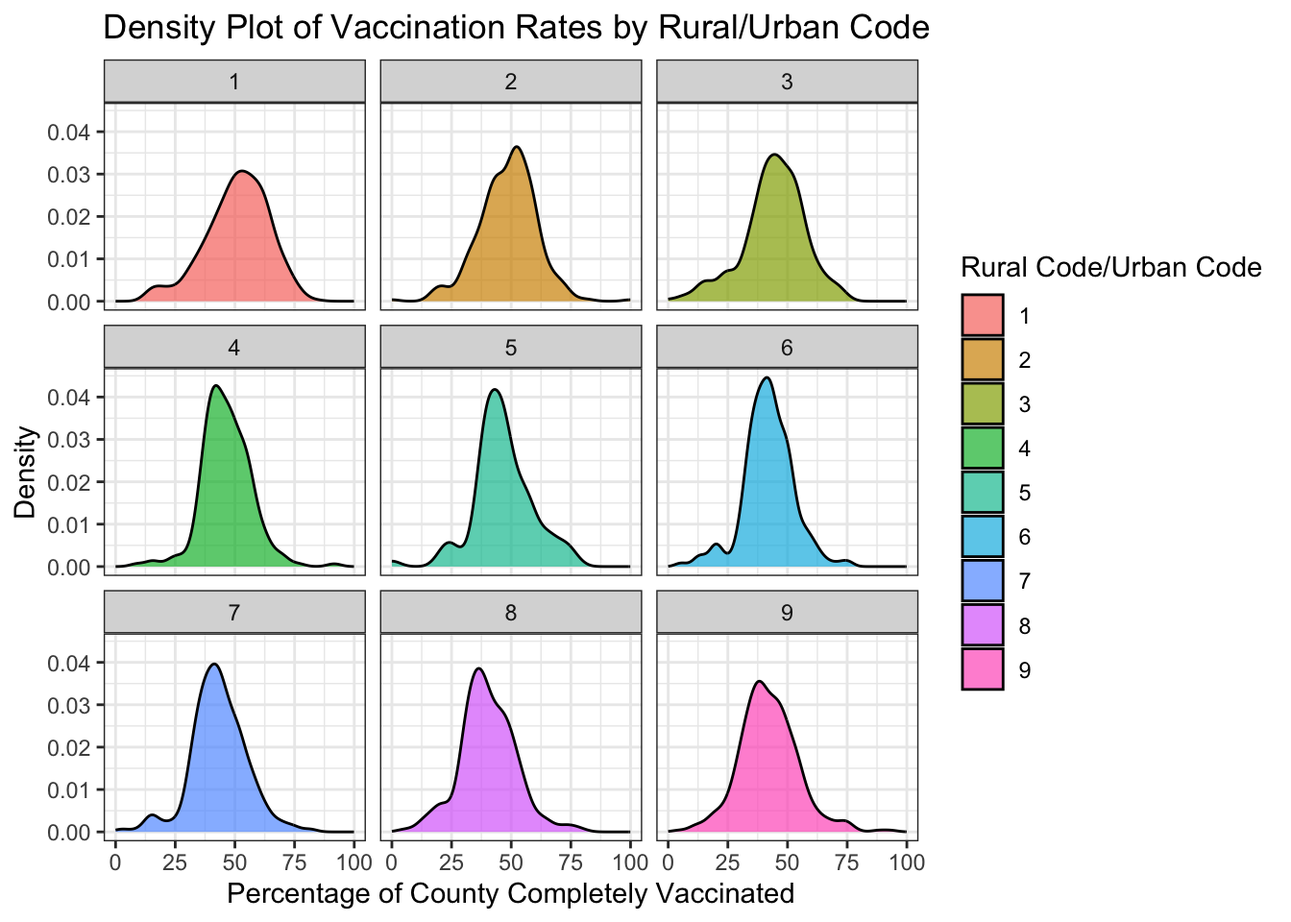
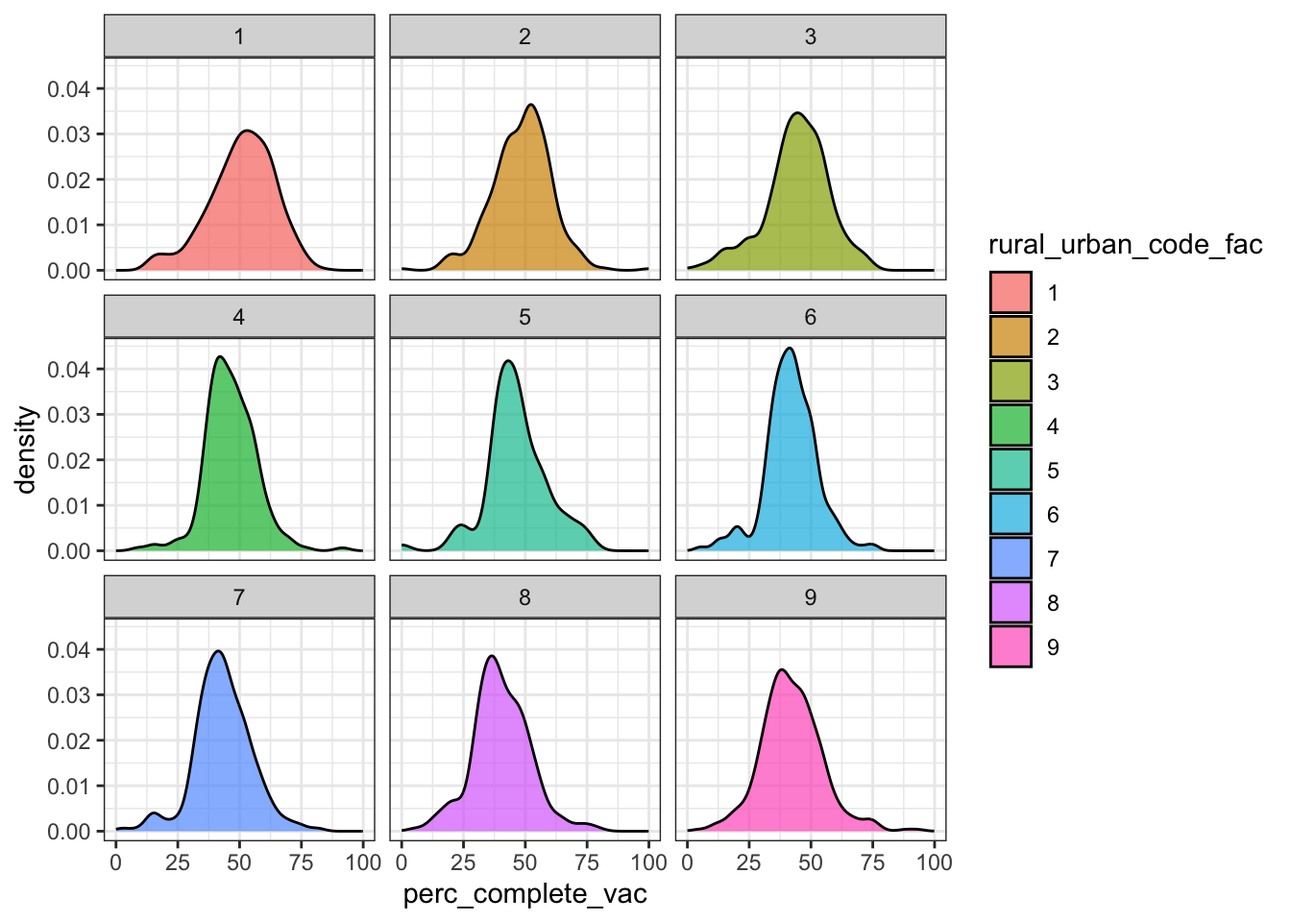
final touches

Changed region(s): [[0.0, 0.0, 0.9688, 1.0]]

diff --git a/01_review164.html b/01_review164.html
@@ -71,10 +71,11 @@ pre > code.sourceCode > span > a:first-child::before { text-decoration: underlin
 
 </head>
 
-<body class="fullcontent">
+<body>
 
 <div id="quarto-content" class="page-columns page-rows-contents page-layout-article">
-
+<div id="quarto-margin-sidebar" class="sidebar margin-sidebar">
+<div class="quarto-alternate-formats"><h2>Other Formats</h2><ul><li><a href="01_review164.pdf"><i class="bi bi-file-pdf"></i>PDF</a></li></ul></div></div>
 <main class="content" id="quarto-document-content">
 
 <header id="title-block-header" class="quarto-title-block default">
@@ -167,6 +168,7 @@ dbl (10): rural_urban_code, perc_complete_vac, tot_pop, votes_Trump, votes_B...
 <ol type="1">
 <li>Consider only Minnesota and its surrounding states (Iowa, Wisconsin, North Dakota, and South Dakota). We want to examine the relationship between the percentage who voted for Biden and the percentage of complete vaccinations by state. Generate two plots to examine this relationship:</li>
 </ol>
+<!-- -->
 <ol type="a">
 <li>A scatterplot with points and smoothers colored by state. Make sure the legend is ordered in a meaningful way, and include good labels on your axes and your legend. Also leave off the error bars from your smoothers.</li>
 </ol>
@@ -236,6 +238,7 @@ dbl (10): rural_urban_code, perc_complete_vac, tot_pop, votes_Trump, votes_B...
 <ol start="3" type="1">
 <li>We want to examine the distribution of total county populations and then see how it’s related to vaccination rates.</li>
 </ol>
+<!-- -->
 <ol type="a">
 <li><em>Carefully and thoroughly</em> explain why the two histograms below provide different plots.</li>
 </ol>
@@ -270,6 +273,7 @@ dbl (10): rural_urban_code, perc_complete_vac, tot_pop, votes_Trump, votes_B...
 <li><p>Plot a histogram of logged population and describe this distribution.</p></li>
 <li><p>Plot the relationship between log population and percent vaccinated using separate colors for Metro and Non-metro counties (be sure there’s no 3rd color used for NAs). Reduce the size and transparency of each point to make the plot more readable. Describe what you can learn from this plot.</p></li>
 </ol>
+<!-- -->
 <ol start="4" type="1">
 <li>Produce 3 different plots for illustrating the relationship between the rural_urban_code and percent vaccinated. Hint: you can sometimes turn numeric variables into categorical variables for plotting purposes (e.g.&nbsp;<code>as.factor()</code>, <code>ifelse()</code>).</li>
 </ol>
@@ -285,7 +289,8 @@ dbl (10): rural_urban_code, perc_complete_vac, tot_pop, votes_Trump, votes_B...
 <span id="cb10-8"><a href="#cb10-8" aria-hidden="true" tabindex="-1"></a>  <span class="fu">labs</span>(<span class="at">x =</span> <span class="st">"Percentage of County Completely Vaccinated"</span>,</span>
 <span id="cb10-9"><a href="#cb10-9" aria-hidden="true" tabindex="-1"></a>       <span class="at">y =</span> <span class="st">"Count"</span>, </span>
 <span id="cb10-10"><a href="#cb10-10" aria-hidden="true" tabindex="-1"></a>       <span class="at">fill =</span> <span class="st">"Rural Code/Urban Code"</span>,</span>
-<span id="cb10-11"><a href="#cb10-11" aria-hidden="true" tabindex="-1"></a>       <span class="at">title =</span> <span class="st">"Histogram of Vaccination Rates by Rural/Urban Code"</span>)</span></code><button title="Copy to Clipboard" class="code-copy-button"><i class="bi"></i></button></pre></div>
+<span id="cb10-11"><a href="#cb10-11" aria-hidden="true" tabindex="-1"></a>       <span class="at">title =</span> <span class="st">"Histogram of Vaccination Rates by Rural/Urban Code"</span>) <span class="sc">+</span></span>
+<span id="cb10-12"><a href="#cb10-12" aria-hidden="true" tabindex="-1"></a>  <span class="fu">theme</span>(<span class="at">legend.position =</span> <span class="st">"none"</span>)</span></code><button title="Copy to Clipboard" class="code-copy-button"><i class="bi"></i></button></pre></div>
 <div class="cell-output cell-output-stderr">
 <pre><code>`stat_bin()` using `bins = 30`. Pick better value with `binwidth`.</code></pre>
 </div>
@@ -297,18 +302,16 @@ dbl (10): rural_urban_code, perc_complete_vac, tot_pop, votes_Trump, votes_B...
 </div>
 </div>
 </div>
+<p>This is my favorite plot, because it tells me a lot about the data (not saying the others don’t) from this I can get a read of how many counties are labeled/assigned to a distinct rural/urban code opposed to the density plot in which it shows the percentage of however many are with that code. As well as how it is faceted it is easier to read and interpret the data and can give us information that for the most urban county (code 1) there are more counts of counties that are in the 40%-60% fully vaccinated opposed to the most rural community (code 9). It is easy to dissect the counts from code to code with this histogram and I appreciate it. I wouldn’t use this as a final plot however it is a good place to start.</p>
+<p>Alt-text. This is a facted histogram showing the relationship between percentage of a county that is completely vaccinated against Covid-19 as of 11/9/21 (x axis) and the amount of counties. It is faceted by the rural/urban code of the county, where 1 is most urban to 9 most rural. We can see the percentage of vaccination rates ranging from 0% to 99.9%. The count ranges from 0- 85ish. The highest number of counties with a similar percentage would be for code 6 with over 85 counts in the 40ish percentage rate being fully vaccinated, this is also its peak. It is also visible that there are the most counties with rural/urban code 6 because of the amount of counts in the histogram itself, it is visibly bigger/thicker than the others. Rural/Urban code 5 has the least amount of counties with the code number. For all of the rural/urban codes the histogram is normally distributed with the peak of the lying anywhere between 38% and 50%. Histograms 4, and 8 have slightly right skewed distributions and every other histogram has a normal distributions.</p>
 <div class="cell">
 <div class="sourceCode cell-code" id="cb12"><pre class="sourceCode r code-with-copy"><code class="sourceCode r"><span id="cb12-1"><a href="#cb12-1" aria-hidden="true" tabindex="-1"></a><span class="co"># PLOT #2</span></span>
 <span id="cb12-2"><a href="#cb12-2" aria-hidden="true" tabindex="-1"></a>vaccine_data <span class="sc">|&gt;</span></span>
 <span id="cb12-3"><a href="#cb12-3" aria-hidden="true" tabindex="-1"></a>  <span class="fu">mutate</span>(<span class="at">rural_urban_code_fac =</span> <span class="fu">as.factor</span>(rural_urban_code)) <span class="sc">|&gt;</span> </span>
 <span id="cb12-4"><a href="#cb12-4" aria-hidden="true" tabindex="-1"></a>  <span class="fu">ggplot</span>(<span class="fu">aes</span>(<span class="at">x =</span> perc_complete_vac, <span class="at">fill =</span> rural_urban_code_fac)) <span class="sc">+</span></span>
 <span id="cb12-5"><a href="#cb12-5" aria-hidden="true" tabindex="-1"></a>  <span class="fu">geom_density</span>(<span class="at">alpha =</span> .<span class="dv">7</span>) <span class="sc">+</span></span>
-<span id="cb12-6"><a href="#cb12-6" aria-hidden="true" tabindex="-1"></a>  <span class="fu">facet_wrap</span>(<span class="sc">~</span>rural_urban_code_fac) <span class="sc">+</span></span>
-<span id="cb12-7"><a href="#cb12-7" aria-hidden="true" tabindex="-1"></a>  <span class="fu">theme_bw</span>() <span class="sc">+</span></span>
-<span id="cb12-8"><a href="#cb12-8" aria-hidden="true" tabindex="-1"></a>  <span class="fu">labs</span>(<span class="at">x =</span> <span class="st">"Percentage of County Completely Vaccinated"</span>,</span>
-<span id="cb12-9"><a href="#cb12-9" aria-hidden="true" tabindex="-1"></a>      <span class="at">y =</span> <span class="st">"Density"</span>,</span>
-<span id="cb12-10"><a href="#cb12-10" aria-hidden="true" tabindex="-1"></a>      <span class="at">title =</span> <span class="st">"Density Plot of Vaccination Rates by Rural/Urban Code"</span>,</span>
-<span id="cb12-11"><a href="#cb12-11" aria-hidden="true" tabindex="-1"></a>      <span class="at">fill =</span> <span class="st">"Rural Code/Urban Code"</span>)</span></code><button title="Copy to Clipboard" class="code-copy-button"><i class="bi"></i></button></pre></div>
+<span id="cb12-6"><a href="#cb12-6" aria-hidden="true" tabindex="-1"></a>  <span class="fu">theme_bw</span>() <span class="sc">+</span></span>
+<span id="cb12-7"><a href="#cb12-7" aria-hidden="true" tabindex="-1"></a>  <span class="fu">facet_wrap</span>(<span class="sc">~</span>rural_urban_code_fac)</span></code><button title="Copy to Clipboard" class="code-copy-button"><i class="bi"></i></button></pre></div>
 <div class="cell-output-display">
 <div>
 <figure class="figure">
@@ -316,17 +319,28 @@ dbl (10): rural_urban_code, perc_complete_vac, tot_pop, votes_Trump, votes_B...
 </figure>
 </div>
 </div>
+<div class="sourceCode cell-code" id="cb13"><pre class="sourceCode r code-with-copy"><code class="sourceCode r"><span id="cb13-1"><a href="#cb13-1" aria-hidden="true" tabindex="-1"></a>  <span class="fu">labs</span>(<span class="at">x =</span> <span class="st">"Percentage of County Completely Vaccinated"</span>,</span>
+<span id="cb13-2"><a href="#cb13-2" aria-hidden="true" tabindex="-1"></a>      <span class="at">y =</span> <span class="st">"Density"</span>,</span>
+<span id="cb13-3"><a href="#cb13-3" aria-hidden="true" tabindex="-1"></a>      <span class="at">title =</span> <span class="st">"Density Plot of Vaccination Rates by Rural/Urban Code"</span>,</span>
+<span id="cb13-4"><a href="#cb13-4" aria-hidden="true" tabindex="-1"></a>      <span class="at">fill =</span> <span class="st">"Rural Code/Urban Code"</span>) <span class="sc">+</span></span>
+<span id="cb13-5"><a href="#cb13-5" aria-hidden="true" tabindex="-1"></a>  <span class="fu">theme</span>(<span class="at">legend.position =</span> <span class="st">"none"</span>)</span></code><button title="Copy to Clipboard" class="code-copy-button"><i class="bi"></i></button></pre></div>
+<div class="cell-output cell-output-stdout">
+<pre><code>NULL</code></pre>
+</div>
 </div>
 <div class="cell">
-<div class="sourceCode cell-code" id="cb13"><pre class="sourceCode r code-with-copy"><code class="sourceCode r"><span id="cb13-1"><a href="#cb13-1" aria-hidden="true" tabindex="-1"></a><span class="co"># PLOT #3</span></span>
-<span id="cb13-2"><a href="#cb13-2" aria-hidden="true" tabindex="-1"></a>vaccine_data <span class="sc">|&gt;</span></span>
-<span id="cb13-3"><a href="#cb13-3" aria-hidden="true" tabindex="-1"></a>  <span class="fu">mutate</span>(<span class="at">rural_urban_code_fac =</span> <span class="fu">as.factor</span>(rural_urban_code)) <span class="sc">|&gt;</span> </span>
-<span id="cb13-4"><a href="#cb13-4" aria-hidden="true" tabindex="-1"></a>  <span class="fu">group_by</span>(rural_urban_code_fac) <span class="sc">|&gt;</span></span>
-<span id="cb13-5"><a href="#cb13-5" aria-hidden="true" tabindex="-1"></a>  <span class="fu">ggplot</span>(<span class="fu">aes</span>(<span class="at">x =</span> rural_urban_code, <span class="at">fill =</span> perc_complete_vac <span class="sc">&gt;</span> <span class="dv">50</span>)) <span class="sc">+</span></span>
-<span id="cb13-6"><a href="#cb13-6" aria-hidden="true" tabindex="-1"></a>  <span class="fu">geom_bar</span>(<span class="at">position =</span> <span class="st">"fill"</span>) <span class="sc">+</span> </span>
-<span id="cb13-7"><a href="#cb13-7" aria-hidden="true" tabindex="-1"></a>  <span class="fu">labs</span>(</span>
-<span id="cb13-8"><a href="#cb13-8" aria-hidden="true" tabindex="-1"></a>    <span class="at">x =</span> <span class="st">"Rural Urban Code"</span></span>
-<span id="cb13-9"><a href="#cb13-9" aria-hidden="true" tabindex="-1"></a>  )</span></code><button title="Copy to Clipboard" class="code-copy-button"><i class="bi"></i></button></pre></div>
+<div class="sourceCode cell-code" id="cb15"><pre class="sourceCode r code-with-copy"><code class="sourceCode r"><span id="cb15-1"><a href="#cb15-1" aria-hidden="true" tabindex="-1"></a><span class="co"># PLOT #3</span></span>
+<span id="cb15-2"><a href="#cb15-2" aria-hidden="true" tabindex="-1"></a>vaccine_data <span class="sc">|&gt;</span></span>
+<span id="cb15-3"><a href="#cb15-3" aria-hidden="true" tabindex="-1"></a>  <span class="fu">mutate</span>(<span class="at">rural_urban_code_fac =</span> <span class="fu">as.factor</span>(rural_urban_code)) <span class="sc">|&gt;</span> </span>
+<span id="cb15-4"><a href="#cb15-4" aria-hidden="true" tabindex="-1"></a>  <span class="fu">group_by</span>(rural_urban_code_fac) <span class="sc">|&gt;</span></span>
+<span id="cb15-5"><a href="#cb15-5" aria-hidden="true" tabindex="-1"></a>  <span class="fu">ggplot</span>(<span class="fu">aes</span>(<span class="at">x =</span> rural_urban_code_fac, <span class="at">fill =</span> perc_complete_vac <span class="sc">&gt;</span> <span class="dv">50</span>)) <span class="sc">+</span></span>
+<span id="cb15-6"><a href="#cb15-6" aria-hidden="true" tabindex="-1"></a>  <span class="fu">geom_bar</span>(<span class="at">position =</span> <span class="st">"fill"</span>) <span class="sc">+</span> </span>
+<span id="cb15-7"><a href="#cb15-7" aria-hidden="true" tabindex="-1"></a>  <span class="fu">labs</span>(</span>
+<span id="cb15-8"><a href="#cb15-8" aria-hidden="true" tabindex="-1"></a>    <span class="at">x =</span> <span class="st">"Rural/Urban Code"</span>,</span>
+<span id="cb15-9"><a href="#cb15-9" aria-hidden="true" tabindex="-1"></a>    <span class="at">y =</span> <span class="st">"Percent Completely Vaccinated"</span>,</span>
+<span id="cb15-10"><a href="#cb15-10" aria-hidden="true" tabindex="-1"></a>    <span class="at">fill =</span> <span class="st">"Percent Completely Vaccinated Greater Than 50%"</span>,</span>
+<span id="cb15-11"><a href="#cb15-11" aria-hidden="true" tabindex="-1"></a>    <span class="at">title =</span> <span class="st">"Percent Completely Vaccinated from Covid By Rural/Urban Code"</span></span>
+<span id="cb15-12"><a href="#cb15-12" aria-hidden="true" tabindex="-1"></a>  )</span></code><button title="Copy to Clipboard" class="code-copy-button"><i class="bi"></i></button></pre></div>
 <div class="cell-output-display">
 <div>
 <figure class="figure">
@@ -335,31 +349,24 @@ dbl (10): rural_urban_code, perc_complete_vac, tot_pop, votes_Trump, votes_B...
 </div>
 </div>
 </div>
-<p>library(dplyr)</p>
-</section>
-<section id="calculate-mean-percentage-vaccinated-by-ruralurban-code" class="level1">
-<h1>Calculate mean percentage vaccinated by rural/urban code</h1>
-<p>mean_vac_per_code &lt;- vaccine_data %&gt;% group_by(rural_urban_code) %&gt;% summarize(mean_vac = mean(perc_complete_vac))</p>
-</section>
-<section id="bar-plot" class="level1">
-<h1>Bar plot</h1>
-<p>ggplot(mean_vac_per_code, aes(x = factor(rural_urban_code), y = mean_vac)) + geom_bar(stat = “identity”, fill = “skyblue”) + labs(title = “Average Percentage Vaccinated by Rural/Urban Code”, x = “Rural/Urban Code”, y = “Average Percentage Vaccinated”) + theme_minimal()</p>
 <ol start="5" type="1">
 <li>BEFORE running the code below, sketch the plot that will be produced by R. AFTER running the code, describe what conclusion(s) can we draw from this plot?</li>
 </ol>
 <div class="cell">
-<div class="sourceCode cell-code" id="cb14"><pre class="sourceCode r code-with-copy"><code class="sourceCode r"><span id="cb14-1"><a href="#cb14-1" aria-hidden="true" tabindex="-1"></a>vaccine_data <span class="sc">|&gt;</span></span>
-<span id="cb14-2"><a href="#cb14-2" aria-hidden="true" tabindex="-1"></a>  <span class="fu">filter</span>(<span class="sc">!</span><span class="fu">is.na</span>(perc_Biden)) <span class="sc">|&gt;</span></span>
-<span id="cb14-3"><a href="#cb14-3" aria-hidden="true" tabindex="-1"></a>  <span class="fu">mutate</span>(<span class="at">big_states =</span> <span class="fu">fct_lump</span>(state, <span class="at">n =</span> <span class="dv">10</span>)) <span class="sc">|&gt;</span></span>
-<span id="cb14-4"><a href="#cb14-4" aria-hidden="true" tabindex="-1"></a>  <span class="fu">group_by</span>(big_states) <span class="sc">|&gt;</span></span>
-<span id="cb14-5"><a href="#cb14-5" aria-hidden="true" tabindex="-1"></a>  <span class="fu">summarize</span>(<span class="at">IQR_Biden =</span> <span class="fu">IQR</span>(perc_Biden)) <span class="sc">|&gt;</span></span>
-<span id="cb14-6"><a href="#cb14-6" aria-hidden="true" tabindex="-1"></a>  <span class="fu">mutate</span>(<span class="at">big_states =</span> <span class="fu">fct_reorder</span>(big_states, IQR_Biden)) <span class="sc">|&gt;</span></span>
-<span id="cb14-7"><a href="#cb14-7" aria-hidden="true" tabindex="-1"></a>  <span class="fu">ggplot</span>() <span class="sc">+</span> </span>
-<span id="cb14-8"><a href="#cb14-8" aria-hidden="true" tabindex="-1"></a>    <span class="fu">geom_point</span>(<span class="fu">aes</span>(<span class="at">x =</span> IQR_Biden, <span class="at">y =</span> big_states))</span></code><button title="Copy to Clipboard" class="code-copy-button"><i class="bi"></i></button></pre></div>
+<div class="sourceCode cell-code" id="cb16"><pre class="sourceCode r code-with-copy"><code class="sourceCode r"><span id="cb16-1"><a href="#cb16-1" aria-hidden="true" tabindex="-1"></a>vaccine_data <span class="sc">|&gt;</span></span>
+<span id="cb16-2"><a href="#cb16-2" aria-hidden="true" tabindex="-1"></a>  <span class="fu">filter</span>(<span class="sc">!</span><span class="fu">is.na</span>(perc_Biden)) <span class="sc">|&gt;</span></span>
+<span id="cb16-3"><a href="#cb16-3" aria-hidden="true" tabindex="-1"></a>  <span class="fu">mutate</span>(<span class="at">big_states =</span> <span class="fu">fct_lump</span>(state, <span class="at">n =</span> <span class="dv">10</span>)) <span class="sc">|&gt;</span></span>
+<span id="cb16-4"><a href="#cb16-4" aria-hidden="true" tabindex="-1"></a>  <span class="fu">group_by</span>(big_states) <span class="sc">|&gt;</span></span>
+<span id="cb16-5"><a href="#cb16-5" aria-hidden="true" tabindex="-1"></a>  <span class="fu">summarize</span>(<span class="at">IQR_Biden =</span> <span class="fu">IQR</span>(perc_Biden)) <span class="sc">|&gt;</span></span>
+<span id="cb16-6"><a href="#cb16-6" aria-hidden="true" tabindex="-1"></a>  <span class="fu">mutate</span>(<span class="at">big_states =</span> <span class="fu">fct_reorder</span>(big_states, IQR_Biden)) <span class="sc">|&gt;</span></span>
+<span id="cb16-7"><a href="#cb16-7" aria-hidden="true" tabindex="-1"></a>  <span class="fu">ggplot</span>() <span class="sc">+</span> </span>
+<span id="cb16-8"><a href="#cb16-8" aria-hidden="true" tabindex="-1"></a>    <span class="fu">geom_point</span>(<span class="fu">aes</span>(<span class="at">x =</span> IQR_Biden, <span class="at">y =</span> big_states))</span></code><button title="Copy to Clipboard" class="code-copy-button"><i class="bi"></i></button></pre></div>
 </div>
+<p><strong>ANSWER</strong> From this plot we can make the conclusion that in the states with a larger IQR, there are counties that vary with the % of people in that county that voted for Biden. Opposed the the sates with a smaller IQR, such as Tennessee or Missouri which means that the counties have more similar % of people in that county that voted for Biden.</p>
 <ol start="6" type="1">
 <li>In this question we will focus only on the 12 states in the Midwest (i.e.&nbsp;where region == “Midwest”).</li>
 </ol>
+<!-- -->
 <ol type="a">
 <li>Create a tibble with the following information for each state. Order states from least to greatest state population.</li>
 </ol>
@@ -369,9 +376,63 @@ dbl (10): rural_urban_code, perc_complete_vac, tot_pop, votes_Trump, votes_B...
 <li>proportion of Metro counties</li>
 <li>median unemployment rate</li>
 </ul>
+<p><strong>ANSWER</strong></p>
+<div class="cell">
+<div class="sourceCode cell-code" id="cb17"><pre class="sourceCode r code-with-copy"><code class="sourceCode r"><span id="cb17-1"><a href="#cb17-1" aria-hidden="true" tabindex="-1"></a>midwest_info <span class="ot">&lt;-</span> vaccine_data <span class="sc">|&gt;</span></span>
+<span id="cb17-2"><a href="#cb17-2" aria-hidden="true" tabindex="-1"></a>  <span class="fu">filter</span>(region <span class="sc">==</span> <span class="st">"Midwest"</span>) <span class="sc">|&gt;</span></span>
+<span id="cb17-3"><a href="#cb17-3" aria-hidden="true" tabindex="-1"></a>  <span class="fu">group_by</span>(state) <span class="sc">|&gt;</span> </span>
+<span id="cb17-4"><a href="#cb17-4" aria-hidden="true" tabindex="-1"></a>  <span class="fu">summarize</span>(<span class="at">rural_urban_rep =</span> <span class="fu">n_distinct</span>(rural_urban_code),</span>
+<span id="cb17-5"><a href="#cb17-5" aria-hidden="true" tabindex="-1"></a>            <span class="at">population =</span> <span class="fu">sum</span>(tot_pop),</span>
+<span id="cb17-6"><a href="#cb17-6" aria-hidden="true" tabindex="-1"></a>            <span class="at">metro =</span> <span class="fu">mean</span>(metro_status <span class="sc">==</span> <span class="st">"Metro"</span>),</span>
+<span id="cb17-7"><a href="#cb17-7" aria-hidden="true" tabindex="-1"></a>            <span class="at">median_unemp =</span> <span class="fu">median</span>(unemployment_rate_2020)) <span class="sc">|&gt;</span></span>
+<span id="cb17-8"><a href="#cb17-8" aria-hidden="true" tabindex="-1"></a>  <span class="fu">arrange</span>(population)</span>
+<span id="cb17-9"><a href="#cb17-9" aria-hidden="true" tabindex="-1"></a>midwest_info</span></code><button title="Copy to Clipboard" class="code-copy-button"><i class="bi"></i></button></pre></div>
+<div class="cell-output cell-output-stdout">
+<pre><code># A tibble: 12 × 5
+   state        rural_urban_rep population metro median_unemp
+   &lt;chr&gt;                  &lt;int&gt;      &lt;dbl&gt; &lt;dbl&gt;        &lt;dbl&gt;
+ 1 North Dakota               6     762062 0.113         4.4 
+ 2 South Dakota               6     884659 0.121         4.35
+ 3 Nebraska                   6    1261262 0.292         3.3 
+ 4 Kansas                     9    2913314 0.181         4.1 
+ 5 Iowa                       8    3155070 0.212         4.6 
+ 6 Minnesota                  9    5639632 0.310         5.6 
+ 7 Wisconsin                  8    5822434 0.361         6.3 
+ 8 Missouri                   9    6137428 0.296         5.6 
+ 9 Indiana                    8    6732219 0.478         6.5 
+10 Michigan                   9    9986857 0.313         9.1 
+11 Ohio                       7   11689100 0.432         8.1 
+12 Illinois                   9   12671821 0.392         7.75</code></pre>
+</div>
+</div>
 <ol start="2" type="a">
 <li>Use your tibble in (a) to produce a plot of the relationship between proportion of Metro counties and median unemployment rate. Points should be colored by the number of different <code>rural_urban_code</code>s in a state, but a single linear trend should be fit to all points. What can you conclude from the plot?</li>
 </ol>
+<p><strong>ANSWER</strong></p>
+<div class="cell">
+<div class="sourceCode cell-code" id="cb19"><pre class="sourceCode r code-with-copy"><code class="sourceCode r"><span id="cb19-1"><a href="#cb19-1" aria-hidden="true" tabindex="-1"></a>midwest_info <span class="sc">|&gt;</span> </span>
+<span id="cb19-2"><a href="#cb19-2" aria-hidden="true" tabindex="-1"></a>  <span class="fu">mutate</span>(<span class="at">rural_urban_rep_fac =</span> <span class="fu">as.factor</span>(rural_urban_rep)) <span class="sc">|&gt;</span></span>
+<span id="cb19-3"><a href="#cb19-3" aria-hidden="true" tabindex="-1"></a>  <span class="fu">ggplot</span>(<span class="fu">aes</span>(<span class="at">x =</span> metro, <span class="at">y =</span> median_unemp)) <span class="sc">+</span></span>
+<span id="cb19-4"><a href="#cb19-4" aria-hidden="true" tabindex="-1"></a>  <span class="fu">geom_point</span>(<span class="fu">aes</span>(<span class="at">color =</span> rural_urban_rep_fac)) <span class="sc">+</span></span>
+<span id="cb19-5"><a href="#cb19-5" aria-hidden="true" tabindex="-1"></a>  <span class="fu">geom_smooth</span>(<span class="at">method =</span> <span class="st">"lm"</span>, <span class="at">se =</span> <span class="cn">FALSE</span>) <span class="sc">+</span></span>
+<span id="cb19-6"><a href="#cb19-6" aria-hidden="true" tabindex="-1"></a>  <span class="fu">labs</span>(</span>
+<span id="cb19-7"><a href="#cb19-7" aria-hidden="true" tabindex="-1"></a>    <span class="at">color =</span> <span class="st">"Rural/Urban Code"</span>,</span>
+<span id="cb19-8"><a href="#cb19-8" aria-hidden="true" tabindex="-1"></a>    <span class="at">x =</span> <span class="st">"Proportion of Metro Counties"</span>,</span>
+<span id="cb19-9"><a href="#cb19-9" aria-hidden="true" tabindex="-1"></a>    <span class="at">y =</span> (<span class="st">"Median Unemployment Rate"</span>)</span>
+<span id="cb19-10"><a href="#cb19-10" aria-hidden="true" tabindex="-1"></a>  )</span></code><button title="Copy to Clipboard" class="code-copy-button"><i class="bi"></i></button></pre></div>
+<div class="cell-output cell-output-stderr">
+<pre><code>`geom_smooth()` using formula = 'y ~ x'</code></pre>
+</div>
+<div class="cell-output-display">
+<div>
+<figure class="figure">
+<p><img src="01_review164_files/figure-html/unnamed-chunk-14-1.png" class="img-fluid figure-img" width="672"></p>
+</figure>
+</div>
+</div>
+</div>
+<p>I can conclude that rural/urban code 6 has a lower median unemployment rate and lower proportion on metro counties compare to rural/urban code 8 or 9. There is a positive linear trend, as proportion of metro goes increases median unemployment rate increases.</p>
+<!-- -->
 <ol start="7" type="1">
 <li>Generate an appropriate plot to compare vaccination rates between two subregions of the US: New England (which contains the states Maine, Vermont, New Hampshire, Massachusetts, Connecticut, Rhode Island) and the Upper Midwest (which, according to the USGS, contains the states Minnesota, Wisconsin, Michigan, Illinois, Indiana, and Iowa). What can you conclude from your plot?</li>
 </ol>
@@ -387,67 +448,97 @@ dbl (10): rural_urban_code, perc_complete_vac, tot_pop, votes_Trump, votes_B...
 <li>Hypothetical R chunk #1:</li>
 </ol>
 <div class="cell">
-<div class="sourceCode cell-code" id="cb15"><pre class="sourceCode r code-with-copy"><code class="sourceCode r"><span id="cb15-1"><a href="#cb15-1" aria-hidden="true" tabindex="-1"></a><span class="co"># Hypothetical R chunk 1</span></span>
-<span id="cb15-2"><a href="#cb15-2" aria-hidden="true" tabindex="-1"></a>temp <span class="ot">&lt;-</span> vaccine_data <span class="sc">|&gt;</span></span>
-<span id="cb15-3"><a href="#cb15-3" aria-hidden="true" tabindex="-1"></a>  <span class="fu">mutate</span>(<span class="at">new_perc_vac =</span> <span class="fu">ifelse</span>(perc_complete_vac <span class="sc">&gt;</span> <span class="dv">95</span>, <span class="cn">NA</span>, perc_complete_vac),</span>
-<span id="cb15-4"><a href="#cb15-4" aria-hidden="true" tabindex="-1"></a>         <span class="at">MD_group =</span> <span class="fu">cut_number</span>(people_per_MD, <span class="dv">3</span>)) <span class="sc">|&gt;</span></span>
-<span id="cb15-5"><a href="#cb15-5" aria-hidden="true" tabindex="-1"></a>  <span class="fu">group_by</span>(MD_group) <span class="sc">|&gt;</span></span>
-<span id="cb15-6"><a href="#cb15-6" aria-hidden="true" tabindex="-1"></a>  <span class="fu">summarise</span>(<span class="at">n =</span> <span class="fu">n</span>(),</span>
-<span id="cb15-7"><a href="#cb15-7" aria-hidden="true" tabindex="-1"></a>            <span class="at">mean_perc_vac =</span> <span class="fu">mean</span>(new_perc_vac, <span class="at">na.rm =</span> <span class="cn">TRUE</span>),</span>
-<span id="cb15-8"><a href="#cb15-8" aria-hidden="true" tabindex="-1"></a>            <span class="at">mean_white =</span> <span class="fu">mean</span>(perc_white, <span class="at">na.rm =</span> <span class="cn">TRUE</span>))</span></code><button title="Copy to Clipboard" class="code-copy-button"><i class="bi"></i></button></pre></div>
+<div class="sourceCode cell-code" id="cb21"><pre class="sourceCode r code-with-copy"><code class="sourceCode r"><span id="cb21-1"><a href="#cb21-1" aria-hidden="true" tabindex="-1"></a><span class="co"># Hypothetical R chunk 1</span></span>
+<span id="cb21-2"><a href="#cb21-2" aria-hidden="true" tabindex="-1"></a>temp <span class="ot">&lt;-</span> vaccine_data <span class="sc">|&gt;</span></span>
+<span id="cb21-3"><a href="#cb21-3" aria-hidden="true" tabindex="-1"></a>  <span class="fu">mutate</span>(<span class="at">new_perc_vac =</span> <span class="fu">ifelse</span>(perc_complete_vac <span class="sc">&gt;</span> <span class="dv">95</span>, <span class="cn">NA</span>, perc_complete_vac),</span>
+<span id="cb21-4"><a href="#cb21-4" aria-hidden="true" tabindex="-1"></a>         <span class="at">MD_group =</span> <span class="fu">cut_number</span>(people_per_MD, <span class="dv">3</span>)) <span class="sc">|&gt;</span></span>
+<span id="cb21-5"><a href="#cb21-5" aria-hidden="true" tabindex="-1"></a>  <span class="fu">group_by</span>(MD_group) <span class="sc">|&gt;</span></span>
+<span id="cb21-6"><a href="#cb21-6" aria-hidden="true" tabindex="-1"></a>  <span class="fu">summarise</span>(<span class="at">n =</span> <span class="fu">n</span>(),</span>
+<span id="cb21-7"><a href="#cb21-7" aria-hidden="true" tabindex="-1"></a>            <span class="at">mean_perc_vac =</span> <span class="fu">mean</span>(new_perc_vac, <span class="at">na.rm =</span> <span class="cn">TRUE</span>),</span>
+<span id="cb21-8"><a href="#cb21-8" aria-hidden="true" tabindex="-1"></a>            <span class="at">mean_white =</span> <span class="fu">mean</span>(perc_white, <span class="at">na.rm =</span> <span class="cn">TRUE</span>))</span></code><button title="Copy to Clipboard" class="code-copy-button"><i class="bi"></i></button></pre></div>
 </div>
 <ol type="a">
-<li><p>Describe the tibble <code>temp</code> created above. What would be the dimensions? What do rows and columns represent?</p></li>
-<li><p>What would happen if we replaced <code>new_perc_vac = ifelse(perc_complete_vac &gt; 95, NA, perc_complete_vac)</code> with <code>new_perc_vac = ifelse(perc_complete_vac &gt; 95, perc_complete_vac, NA)</code>?</p></li>
-<li><p>What would happen if we replaced <code>mean_white = mean(perc_white, na.rm = TRUE)</code> with <code>mean_white = mean(perc_white)</code>?</p></li>
-<li><p>What would happen if we removed <code>group_by(MD_group)</code>?</p></li>
+<li>Describe the tibble <code>temp</code> created above. What would be the dimensions? What do rows and columns represent?</li>
 </ol>
+<p><strong>ANSWER</strong> Dimensions: 3 rows and 4 columns new_perc_vac - removes all counties of over 95% vacc rate, makes them NA MD_group - each row is a grouping of people per doctor, either a 1 2 or 3 Columns: - n is number of counties - mean_perc_vac, is the avg of new_perc_vac, removes NA values - mean_white, is the avg of perc_white, removes NA values</p>
+<ol start="2" type="a">
+<li>What would happen if we replaced <code>new_perc_vac = ifelse(perc_complete_vac &gt; 95, NA, perc_complete_vac)</code> with <code>new_perc_vac = ifelse(perc_complete_vac &gt; 95, perc_complete_vac, NA)</code>?</li>
+</ol>
+<p><strong>ANSWER</strong> It would keep all perc_complete_vac that are greater than 95 and then set all other values to NA.</p>
+<ol start="3" type="a">
+<li>What would happen if we replaced <code>mean_white = mean(perc_white, na.rm = TRUE)</code> with <code>mean_white = mean(perc_white)</code>?</li>
+</ol>
+<p><strong>ANSWER</strong> It will not be able to calculate the means. Means would be NA.</p>
+<ol start="4" type="a">
+<li>What would happen if we removed <code>group_by(MD_group)</code>?</li>
+</ol>
+<p><strong>ANSWER</strong> If we removed it, then it would not group by the 3 split groups, for summary statistics (mean) would do for the entire dataset and we would have 1 row</p>
+<!-- -->
 <ol start="9" type="1">
 <li>Hypothetical R chunk #2:</li>
 </ol>
 <div class="cell">
-<div class="sourceCode cell-code" id="cb16"><pre class="sourceCode r code-with-copy"><code class="sourceCode r"><span id="cb16-1"><a href="#cb16-1" aria-hidden="true" tabindex="-1"></a><span class="co"># Hypothetical R chunk 2</span></span>
-<span id="cb16-2"><a href="#cb16-2" aria-hidden="true" tabindex="-1"></a><span class="fu">ggplot</span>(<span class="at">data =</span> vaccine_data) <span class="sc">+</span></span>
-<span id="cb16-3"><a href="#cb16-3" aria-hidden="true" tabindex="-1"></a>  <span class="fu">geom_point</span>(<span class="at">mapping =</span> <span class="fu">aes</span>(<span class="at">x =</span> perc_over_65, <span class="at">y =</span> perc_complete_vac, </span>
-<span id="cb16-4"><a href="#cb16-4" aria-hidden="true" tabindex="-1"></a>                           <span class="at">color =</span> HR_party)) <span class="sc">+</span></span>
-<span id="cb16-5"><a href="#cb16-5" aria-hidden="true" tabindex="-1"></a>  <span class="fu">geom_smooth</span>()</span>
-<span id="cb16-6"><a href="#cb16-6" aria-hidden="true" tabindex="-1"></a></span>
-<span id="cb16-7"><a href="#cb16-7" aria-hidden="true" tabindex="-1"></a>temp <span class="ot">&lt;-</span> vaccine_data <span class="sc">|&gt;</span></span>
-<span id="cb16-8"><a href="#cb16-8" aria-hidden="true" tabindex="-1"></a>  <span class="fu">group_by</span>(HR_party) <span class="sc">|&gt;</span></span>
-<span id="cb16-9"><a href="#cb16-9" aria-hidden="true" tabindex="-1"></a>  <span class="fu">summarise</span>(<span class="at">var1 =</span> <span class="fu">n</span>()) <span class="sc">|&gt;</span></span>
-<span id="cb16-10"><a href="#cb16-10" aria-hidden="true" tabindex="-1"></a>  <span class="fu">arrange</span>(<span class="fu">desc</span>(var1)) <span class="sc">|&gt;</span></span>
-<span id="cb16-11"><a href="#cb16-11" aria-hidden="true" tabindex="-1"></a>  <span class="fu">slice_head</span>(<span class="at">n =</span> <span class="dv">3</span>)</span>
-<span id="cb16-12"><a href="#cb16-12" aria-hidden="true" tabindex="-1"></a></span>
-<span id="cb16-13"><a href="#cb16-13" aria-hidden="true" tabindex="-1"></a>vaccine_data <span class="sc">|&gt;</span></span>
-<span id="cb16-14"><a href="#cb16-14" aria-hidden="true" tabindex="-1"></a>  <span class="fu">ggplot</span>(<span class="at">mapping =</span> <span class="fu">aes</span>(<span class="at">x =</span> <span class="fu">fct_reorder</span>(HR_party, perc_over_65, <span class="at">.fun =</span> median), </span>
-<span id="cb16-15"><a href="#cb16-15" aria-hidden="true" tabindex="-1"></a>                       <span class="at">y =</span> perc_over_65)) <span class="sc">+</span></span>
-<span id="cb16-16"><a href="#cb16-16" aria-hidden="true" tabindex="-1"></a>    <span class="fu">geom_boxplot</span>()</span></code><button title="Copy to Clipboard" class="code-copy-button"><i class="bi"></i></button></pre></div>
+<div class="sourceCode cell-code" id="cb22"><pre class="sourceCode r code-with-copy"><code class="sourceCode r"><span id="cb22-1"><a href="#cb22-1" aria-hidden="true" tabindex="-1"></a><span class="co"># Hypothetical R chunk 2</span></span>
+<span id="cb22-2"><a href="#cb22-2" aria-hidden="true" tabindex="-1"></a><span class="fu">ggplot</span>(<span class="at">data =</span> vaccine_data) <span class="sc">+</span></span>
+<span id="cb22-3"><a href="#cb22-3" aria-hidden="true" tabindex="-1"></a>  <span class="fu">geom_point</span>(<span class="at">mapping =</span> <span class="fu">aes</span>(<span class="at">x =</span> perc_over_65, <span class="at">y =</span> perc_complete_vac, </span>
+<span id="cb22-4"><a href="#cb22-4" aria-hidden="true" tabindex="-1"></a>                           <span class="at">color =</span> HR_party)) <span class="sc">+</span></span>
+<span id="cb22-5"><a href="#cb22-5" aria-hidden="true" tabindex="-1"></a>  <span class="fu">geom_smooth</span>()</span>
+<span id="cb22-6"><a href="#cb22-6" aria-hidden="true" tabindex="-1"></a></span>
+<span id="cb22-7"><a href="#cb22-7" aria-hidden="true" tabindex="-1"></a>temp <span class="ot">&lt;-</span> vaccine_data <span class="sc">|&gt;</span></span>
+<span id="cb22-8"><a href="#cb22-8" aria-hidden="true" tabindex="-1"></a>  <span class="fu">group_by</span>(HR_party) <span class="sc">|&gt;</span></span>
+<span id="cb22-9"><a href="#cb22-9" aria-hidden="true" tabindex="-1"></a>  <span class="fu">summarise</span>(<span class="at">var1 =</span> <span class="fu">n</span>()) <span class="sc">|&gt;</span></span>
+<span id="cb22-10"><a href="#cb22-10" aria-hidden="true" tabindex="-1"></a>  <span class="fu">arrange</span>(<span class="fu">desc</span>(var1)) <span class="sc">|&gt;</span></span>
+<span id="cb22-11"><a href="#cb22-11" aria-hidden="true" tabindex="-1"></a>  <span class="fu">slice_head</span>(<span class="at">n =</span> <span class="dv">3</span>)</span>
+<span id="cb22-12"><a href="#cb22-12" aria-hidden="true" tabindex="-1"></a></span>
+<span id="cb22-13"><a href="#cb22-13" aria-hidden="true" tabindex="-1"></a>vaccine_data <span class="sc">|&gt;</span></span>
+<span id="cb22-14"><a href="#cb22-14" aria-hidden="true" tabindex="-1"></a>  <span class="fu">ggplot</span>(<span class="at">mapping =</span> <span class="fu">aes</span>(<span class="at">x =</span> <span class="fu">fct_reorder</span>(HR_party, perc_over_65, <span class="at">.fun =</span> median), </span>
+<span id="cb22-15"><a href="#cb22-15" aria-hidden="true" tabindex="-1"></a>                       <span class="at">y =</span> perc_over_65)) <span class="sc">+</span></span>
+<span id="cb22-16"><a href="#cb22-16" aria-hidden="true" tabindex="-1"></a>    <span class="fu">geom_boxplot</span>()</span></code><button title="Copy to Clipboard" class="code-copy-button"><i class="bi"></i></button></pre></div>
 </div>
 <ol type="a">
-<li><p>Why would the first plot produce an error?</p></li>
-<li><p>Describe the tibble <code>temp</code> created above. What would be the dimensions? What do rows and columns represent?</p></li>
-<li><p>What would happen if we replaced <code>fct_reorder(HR_party, perc_over_65, .fun = median)</code> with <code>HR_party</code>?</p></li>
+<li>Why would the first plot produce an error?</li>
 </ol>
+<p><strong>ANSWER</strong> The first plot would produce an error because geom_smooth() doesn’t have anything inside of it. There would be trouble computing that layer since the aes only are “set” for geom_point. geom_smooth doesn’t know what to plot for the x and y.</p>
+<ol start="2" type="a">
+<li>Describe the tibble <code>temp</code> created above. What would be the dimensions? What do rows and columns represent?</li>
+</ol>
+<p><strong>ANSWER</strong> Dimensions: 3 rows and 2 columns Top 3 rows of the HR_Party, represents the party that shows up the most after the summarize</p>
+<p>Columns: - HR_Party represents our different party, is what we use for grouping, (Republican, Democrat, Independent, Green, or Libertarian) - var1 is the number of times each value of HR_Party shows up in dataset, summarizes how frequently it appears in the dataset based on the grouping variable</p>
+<ol start="3" type="a">
+<li>What would happen if we replaced <code>fct_reorder(HR_party, perc_over_65, .fun = median)</code> with <code>HR_party</code>?</li>
+</ol>
+<p><strong>ANSWER</strong> It wouldn’t order HR_party based of the median of percent is over 65 years old, but order based on HR_party, which would now appear in the order that it appears in the dataset.</p>
+<!-- -->
 <ol start="10" type="1">
 <li>Hypothetical R chunk #3:</li>
 </ol>
 <div class="cell">
-<div class="sourceCode cell-code" id="cb17"><pre class="sourceCode r code-with-copy"><code class="sourceCode r"><span id="cb17-1"><a href="#cb17-1" aria-hidden="true" tabindex="-1"></a><span class="co"># Hypothetical R chunk 3</span></span>
-<span id="cb17-2"><a href="#cb17-2" aria-hidden="true" tabindex="-1"></a>vaccine_data <span class="sc">|&gt;</span></span>
-<span id="cb17-3"><a href="#cb17-3" aria-hidden="true" tabindex="-1"></a>  <span class="fu">filter</span>(<span class="sc">!</span><span class="fu">is.na</span>(people_per_MD)) <span class="sc">|&gt;</span></span>
-<span id="cb17-4"><a href="#cb17-4" aria-hidden="true" tabindex="-1"></a>  <span class="fu">mutate</span>(<span class="at">state_lump =</span> <span class="fu">fct_lump</span>(state, <span class="at">n =</span> <span class="dv">4</span>)) <span class="sc">|&gt;</span></span>
-<span id="cb17-5"><a href="#cb17-5" aria-hidden="true" tabindex="-1"></a>  <span class="fu">group_by</span>(state_lump, rural_urban_code) <span class="sc">|&gt;</span></span>
-<span id="cb17-6"><a href="#cb17-6" aria-hidden="true" tabindex="-1"></a>  <span class="fu">summarise</span>(<span class="at">mean_people_per_MD =</span> <span class="fu">mean</span>(people_per_MD)) <span class="sc">|&gt;</span></span>
-<span id="cb17-7"><a href="#cb17-7" aria-hidden="true" tabindex="-1"></a>  <span class="fu">ggplot</span>(<span class="at">mapping =</span> <span class="fu">aes</span>(<span class="at">x =</span> rural_urban_code, <span class="at">y =</span> mean_people_per_MD, </span>
-<span id="cb17-8"><a href="#cb17-8" aria-hidden="true" tabindex="-1"></a>      <span class="at">colour =</span> <span class="fu">fct_reorder2</span>(state_lump, rural_urban_code, mean_people_per_MD))) <span class="sc">+</span></span>
-<span id="cb17-9"><a href="#cb17-9" aria-hidden="true" tabindex="-1"></a>    <span class="fu">geom_line</span>()</span></code><button title="Copy to Clipboard" class="code-copy-button"><i class="bi"></i></button></pre></div>
+<div class="sourceCode cell-code" id="cb23"><pre class="sourceCode r code-with-copy"><code class="sourceCode r"><span id="cb23-1"><a href="#cb23-1" aria-hidden="true" tabindex="-1"></a><span class="co"># Hypothetical R chunk 3</span></span>
+<span id="cb23-2"><a href="#cb23-2" aria-hidden="true" tabindex="-1"></a>vaccine_data <span class="sc">|&gt;</span></span>
+<span id="cb23-3"><a href="#cb23-3" aria-hidden="true" tabindex="-1"></a>  <span class="fu">filter</span>(<span class="sc">!</span><span class="fu">is.na</span>(people_per_MD)) <span class="sc">|&gt;</span></span>
+<span id="cb23-4"><a href="#cb23-4" aria-hidden="true" tabindex="-1"></a>  <span class="fu">mutate</span>(<span class="at">state_lump =</span> <span class="fu">fct_lump</span>(state, <span class="at">n =</span> <span class="dv">4</span>)) <span class="sc">|&gt;</span></span>
+<span id="cb23-5"><a href="#cb23-5" aria-hidden="true" tabindex="-1"></a>  <span class="fu">group_by</span>(state_lump, rural_urban_code) <span class="sc">|&gt;</span></span>
+<span id="cb23-6"><a href="#cb23-6" aria-hidden="true" tabindex="-1"></a>  <span class="fu">summarise</span>(<span class="at">mean_people_per_MD =</span> <span class="fu">mean</span>(people_per_MD)) <span class="sc">|&gt;</span></span>
+<span id="cb23-7"><a href="#cb23-7" aria-hidden="true" tabindex="-1"></a>  <span class="fu">ggplot</span>(<span class="at">mapping =</span> <span class="fu">aes</span>(<span class="at">x =</span> rural_urban_code, <span class="at">y =</span> mean_people_per_MD, </span>
+<span id="cb23-8"><a href="#cb23-8" aria-hidden="true" tabindex="-1"></a>      <span class="at">colour =</span> <span class="fu">fct_reorder2</span>(state_lump, rural_urban_code, mean_people_per_MD))) <span class="sc">+</span></span>
+<span id="cb23-9"><a href="#cb23-9" aria-hidden="true" tabindex="-1"></a>    <span class="fu">geom_line</span>()</span></code><button title="Copy to Clipboard" class="code-copy-button"><i class="bi"></i></button></pre></div>
 </div>
 <ol type="a">
-<li><p>Describe the tibble piped into the ggplot above. What would be the dimensions? What do rows and columns represent?</p></li>
-<li><p>Carefully describe the plot created above.</p></li>
-<li><p>What would happen if we removed <code>filter(!is.na(people_per_MD))</code>?</p></li>
-<li><p>What would happen if we replaced <code>fct_reorder2(state_lump, rural_urban_code, mean_people_per_MD)</code> with <code>state_lump</code>?</p></li>
+<li>Describe the tibble piped into the ggplot above. What would be the dimensions? What do rows and columns represent?</li>
 </ol>
+<p><strong>ANSWER</strong> Dimensions: min 5 rows, max 45 rows, 3 columns. Rows will be the 4 states that show up the most with an “Other”, and their respective combinations with the rural_urban_code Columns: - state_lump,represents the top 4 most frequent states, with all other states lumped into an “Other” category. - mean_people_per_MD, is the mean of people_per_MD for each combo of state_lump and rural_urban_code - rural_urban_code, from 1 (most urban) to 9 (most rural)</p>
+<ol start="2" type="a">
+<li>Carefully describe the plot created above.</li>
+</ol>
+<p><strong>ANSWER</strong> The plot uses rural_urban_code as the x axis, (so 1-9) and then mean_people_per_MD as the y axis. Different colored lines per state_lump and rural_urban code. The colors of the lines are ordered by state_lump, then rural_urban_code, then mean_people_per_MD.</p>
+<ol start="3" type="a">
+<li>What would happen if we removed <code>filter(!is.na(people_per_MD))</code>?</li>
+</ol>
+<p><strong>ANSWER</strong> The NA values will not be removed. We would have trouble in the summarize when we tried to find the mean of people_per_md.</p>
+<ol start="4" type="a">
+<li>What would happen if we replaced <code>fct_reorder2(state_lump, rural_urban_code, mean_people_per_MD)</code> with <code>state_lump</code>?</li>
+</ol>
+<p><strong>ANSWER</strong> It would order it in the original order of state_lump, the order that it appears in the dataset. The lines would not be colored soley on the state_lump and not take into account order of mean and rural_urban_code</p>
 </section>
 
 </main>
